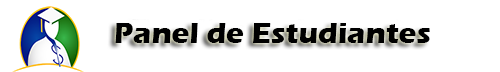
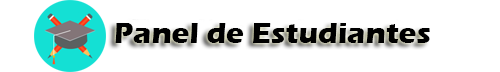
menu administrador
cambios en el nav-bar y los iconos

Changed region(s): [[0.0, 0.0, 0.21, 1.0]]

diff --git a/TisN/css/bootstrap.css b/TisN/css/bootstrap.css
@@ -1609,8 +1609,8 @@ pre code {
   margin-left: auto;
 }
 .row {
-  margin-right: -15px;
-  margin-left: -15px;
+  margin-right: 0 px;
+  margin-left: 0 px;
 }
 .col-xs-1, .col-sm-1, .col-md-1, .col-lg-1, .col-xs-2, .col-sm-2, .col-md-2, .col-lg-2, .col-xs-3, .col-sm-3, .col-md-3, .col-lg-3, .col-xs-4, .col-sm-4, .col-md-4, .col-lg-4, .col-xs-5, .col-sm-5, .col-md-5, .col-lg-5, .col-xs-6, .col-sm-6, .col-md-6, .col-lg-6, .col-xs-7, .col-sm-7, .col-md-7, .col-lg-7, .col-xs-8, .col-sm-8, .col-md-8, .col-lg-8, .col-xs-9, .col-sm-9, .col-md-9, .col-lg-9, .col-xs-10, .col-sm-10, .col-md-10, .col-lg-10, .col-xs-11, .col-sm-11, .col-md-11, .col-lg-11, .col-xs-12, .col-sm-12, .col-md-12, .col-lg-12 {
   position: relative;
@@ -1964,7 +1964,7 @@ pre code {
     width: 33.33333333%;
   }
   .col-md-3 {
-    width: 20%;
+    width: 25%;
   }
   .col-md-2 {
     width: 16.66666667%;

diff --git a/TisN/css/modern-business.css b/TisN/css/modern-business.css
@@ -10,7 +10,7 @@ html,
 body {
     height: 100%;
 }
-.footerBottomSection{background:#0a2048; padding:10px 0; color:#fff}
+.footerBottomSection{background:#0a2048; padding:10px 0; padding-left: 20px;; color:#fff; font-size: 10px }
 body {
     padding-top: 50px; /* Required padding for .navbar-fixed-top. Remove if using .navbar-static-top. Change if height of navigation changes. */
 }

diff --git a/TisN/css/index.css b/TisN/css/index.css
@@ -39,7 +39,6 @@ h2.page-header {
   .container1{
     width: 100%;
     padding-right: 0px;
-    padding-left: 20px;
     margin-right: 0px;
     margin-left: 0px;
     font-size: 10px;
@@ -106,3 +105,7 @@ h2.page-header {
     border: 1px solid transparent;
     border-radius: 4px;
 }
+
+.col-md-3 {
+    width: 20%;
+  }

diff --git a/TisN/css/estilo.css b/TisN/css/estilo.css
@@ -63,3 +63,5 @@
         {
             width:400px;margin:50px auto 0;
         }
+
+       

diff --git a/TisN/admin/otros/menuAdministrador.php b/TisN/admin/otros/menuAdministrador.php
@@ -27,7 +27,7 @@
                     <div class="panel-heading">
                         <span class="fa-stack fa-3x">
                               <i class="fa fa-circle fa-stack-2x text-primary"></i>
-                              <i class="fa fa-child fa-stack-1x fa-inverse"></i>
+                              <i class="fa fa-graduation-cap fa-stack-1x fa-inverse"></i>
                         </span>
                     </div>
                     <div class="panel-body">
@@ -37,24 +37,20 @@
                     </div>
                 </div>
             </div>
+
             <div class="col-md-3 col-sm-6">
                 <div class="panel panel-default text-center">
                     <div class="panel-heading">
                         <span class="fa-stack fa-3x">
                               <i class="fa fa-circle fa-stack-2x text-primary"></i>
-                              <i class="fa fa-sign-in fa-stack-1x fa-inverse"></i>
+                              <i class="fa fa-book fa-stack-1x fa-inverse"></i>
                         </span>
                     </div>
-
-
                     <div class="panel-body">
                          <h4 class="media-heading">Docentes</h4>
                        <p>Total de Docentes: <span class="label label-danger pull-right"><?php echo $TotalDocentes ?></span></p>
                        <a href="docentes.php" class="btn btn-success"><i class="fa fa-mail-forward"></i>  Entrar</a>
                     </div>
-
-
-
                     
                 </div>
             </div>
@@ -65,8 +61,7 @@
                               <i class="fa fa-circle fa-stack-2x text-primary"></i>
                               <i class="fa fa-list-alt fa-stack-1x fa-inverse"></i>
                         </span>
-                    </div>
-                    
+                    </div>                    
                     <div class="panel-body">
                        <h4 class="media-heading">Materias</h4>
                        <p>Total de Materias: <span class="label label-danger pull-right"><?php echo $TotalAsignaturas ?></span></p>
@@ -81,7 +76,7 @@
                     <div class="panel-heading">
                         <span class="fa-stack fa-3x">
                               <i class="fa fa-circle fa-stack-2x text-primary"></i>
-                              <i class="fa fa-sort-numeric-asc fa-stack-1x fa-inverse"></i>
+                              <i class="fa fa-university fa-stack-1x fa-inverse"></i>
                         </span>
                     </div>
                     <div class="panel-body">
@@ -101,7 +96,7 @@
                     <div class="panel-heading">
                         <span class="fa-stack fa-3x">
                               <i class="fa fa-circle fa-stack-2x text-primary"></i>
-                              <i class="fa fa-clipboard fa-stack-1x fa-inverse"></i>
+                              <i class="fa fa-group fa-stack-1x fa-inverse"></i>
                         </span>
                     </div>
                     <div class="panel-body">
@@ -117,7 +112,7 @@
                     <div class="panel-heading">
                         <span class="fa-stack fa-3x">
                               <i class="fa fa-circle fa-stack-2x text-primary"></i>
-                              <i class="fa fa-newspaper-o fa-stack-1x fa-inverse"></i>
+                              <i class="fa fa-calendar fa-stack-1x fa-inverse"></i>
                         </span>
                     </div>
                     <div class="panel-body">
@@ -134,7 +129,7 @@
                     <div class="panel-heading">
                         <span class="fa-stack fa-3x">
                               <i class="fa fa-circle fa-stack-2x text-primary"></i>
-                              <i class="fa fa-calendar fa-stack-1x fa-inverse"></i>
+                              <i class="fa fa-user fa-stack-1x fa-inverse"></i>
                         </span>
                     </div>
                     <div class="panel-body">
@@ -150,7 +145,7 @@
                     <div class="panel-heading">
                         <span class="fa-stack fa-3x">
                               <i class="fa fa-circle fa-stack-2x text-primary"></i>
-                              <i class="fa fa-graduation-cap fa-stack-1x fa-inverse"></i>
+                              <i class="fa fa-history fa-stack-1x fa-inverse"></i>
                         </span>
                     </div>
                     <div class="panel-body">
@@ -172,7 +167,7 @@
                     <div class="panel-heading">
                         <span class="fa-stack fa-3x">
                               <i class="fa fa-circle fa-stack-2x text-primary"></i>
-                              <i class="fa fa-th fa-stack-1x fa-inverse"></i>
+                              <i class="fa fa-gears fa-stack-1x fa-inverse"></i>
                         </span>
                  
 

diff --git a/TisN/admin/menuAdmin.php b/TisN/admin/menuAdmin.php
@@ -7,7 +7,7 @@
                     <span class="icon-bar"></span>
                     <span class="icon-bar"></span>
                 </button>
-                <a class="navbar-brand" href="#">< Laboratorios de informatica-sistemas UMSS ></a>
+                <a class="navbar-brand" href="#">LAB - INFSIS</a>
             </div>
             <div class="collapse navbar-collapse" id="bs-example-navbar-collapse-1">
                 <ul class="nav navbar-nav navbar-right">
